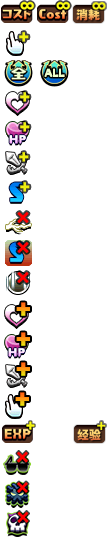
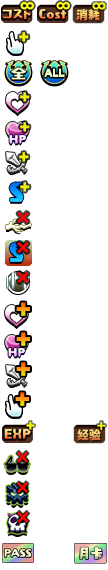
增加月卡徽章

diff --git a/triple.html b/triple.html
@@ -88,6 +88,7 @@ var formation = new Formation(teamsCount,6);
 					<li><input type="radio" name="team-1-badge" class="badge-radio" value="15" id="team-1-badge-15"><label class="badge" data-badge-icon="15" for="team-1-badge-15"></label></li>
 					<li><input type="radio" name="team-1-badge" class="badge-radio" value="16" id="team-1-badge-16"><label class="badge" data-badge-icon="16" for="team-1-badge-16"></label></li>
 					<li><input type="radio" name="team-1-badge" class="badge-radio" value="17" id="team-1-badge-17"><label class="badge" data-badge-icon="17" for="team-1-badge-17"></label></li>
+					<li><input type="radio" name="team-1-badge" class="badge-radio" value="18" id="team-1-badge-18"><label class="badge" data-badge-icon="18" for="team-1-badge-18"></label></li>
 					<div class="team-total-info"><div class="tIf-total-hp"></div><div class="tIf-total-move"></div></div>
 				</ul>
 				<div class="team-box-name">
@@ -433,6 +434,7 @@ var formation = new Formation(teamsCount,6);
 					<li><input type="radio" name="team-2-badge" class="badge-radio" value="15" id="team-2-badge-15"><label class="badge" data-badge-icon="15" for="team-2-badge-15"></label></li>
 					<li><input type="radio" name="team-2-badge" class="badge-radio" value="16" id="team-2-badge-16"><label class="badge" data-badge-icon="16" for="team-2-badge-16"></label></li>
 					<li><input type="radio" name="team-2-badge" class="badge-radio" value="17" id="team-2-badge-17"><label class="badge" data-badge-icon="17" for="team-2-badge-17"></label></li>
+					<li><input type="radio" name="team-1-badge" class="badge-radio" value="18" id="team-1-badge-18"><label class="badge" data-badge-icon="18" for="team-1-badge-18"></label></li>
 					<div class="team-total-info"><div class="tIf-total-hp"></div><div class="tIf-total-move"></div></div>
 				</ul>
 				<div class="team-box-name">
@@ -778,6 +780,7 @@ var formation = new Formation(teamsCount,6);
 					<li><input type="radio" name="team-3-badge" class="badge-radio" value="15" id="team-3-badge-15"><label class="badge" data-badge-icon="15" for="team-3-badge-15"></label></li>
 					<li><input type="radio" name="team-3-badge" class="badge-radio" value="16" id="team-3-badge-16"><label class="badge" data-badge-icon="16" for="team-3-badge-16"></label></li>
 					<li><input type="radio" name="team-3-badge" class="badge-radio" value="17" id="team-3-badge-17"><label class="badge" data-badge-icon="17" for="team-3-badge-17"></label></li>
+					<li><input type="radio" name="team-1-badge" class="badge-radio" value="18" id="team-1-badge-18"><label class="badge" data-badge-icon="18" for="team-1-badge-18"></label></li>
 					<div class="team-total-info"><div class="tIf-total-hp"></div><div class="tIf-total-move"></div></div>
 				</ul>
 				<div class="team-box-name">

diff --git a/solo.html b/solo.html
@@ -73,6 +73,7 @@ var formation = new Formation(teamsCount,6);
 					<li><input type="radio" name="team-1-badge" class="badge-radio" value="15" id="team-1-badge-15"><label class="badge" data-badge-icon="15" for="team-1-badge-15"></label></li>
 					<li><input type="radio" name="team-1-badge" class="badge-radio" value="16" id="team-1-badge-16"><label class="badge" data-badge-icon="16" for="team-1-badge-16"></label></li>
 					<li><input type="radio" name="team-1-badge" class="badge-radio" value="17" id="team-1-badge-17"><label class="badge" data-badge-icon="17" for="team-1-badge-17"></label></li>
+					<li><input type="radio" name="team-1-badge" class="badge-radio" value="18" id="team-1-badge-18"><label class="badge" data-badge-icon="18" for="team-1-badge-18"></label></li>
 					<div class="team-total-info"><div class="tIf-total-hp"></div><div class="tIf-total-move"></div></div>
 				</ul>
 				<div class="team-box-name">

diff --git a/languages/icon-zh.css b/languages/icon-zh.css
@@ -6,7 +6,8 @@
 	background-position-x: calc(-32px * 2);
 }
 .badge[data-badge-icon='0']::before,
-.badge[data-badge-icon='14']::before
+.badge[data-badge-icon='14']::before,
+.badge[data-badge-icon='18']::before
 {
 	background-position-x: calc(-36px * 2);
 }

diff --git a/style-monsterimages.css b/style-monsterimages.css
@@ -917,6 +917,9 @@
 .badge[data-badge-icon='17']::before{
 	background-position-y:calc(-30px * 17);
 }
+.badge[data-badge-icon='18']::before{
+	background-position-y:calc(-30px * 18);
+}
 
 /*属性图片*/
 .attr
